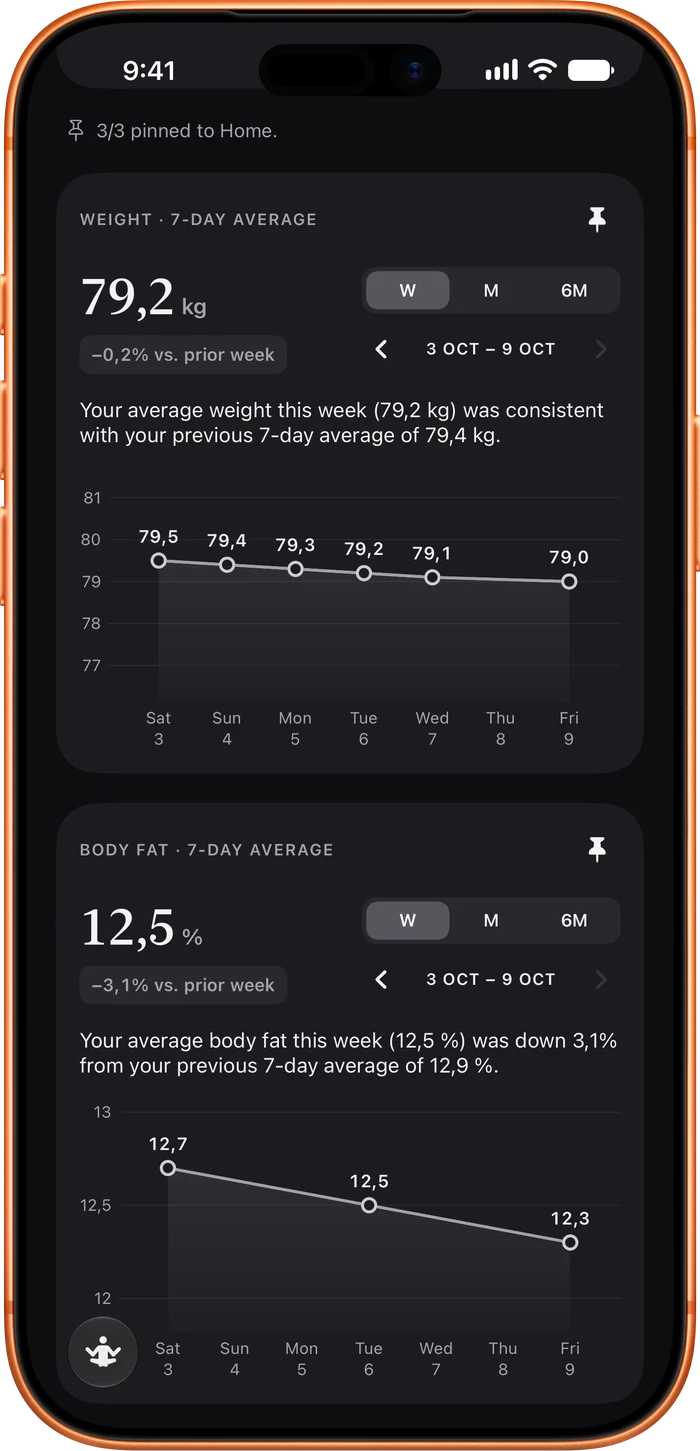
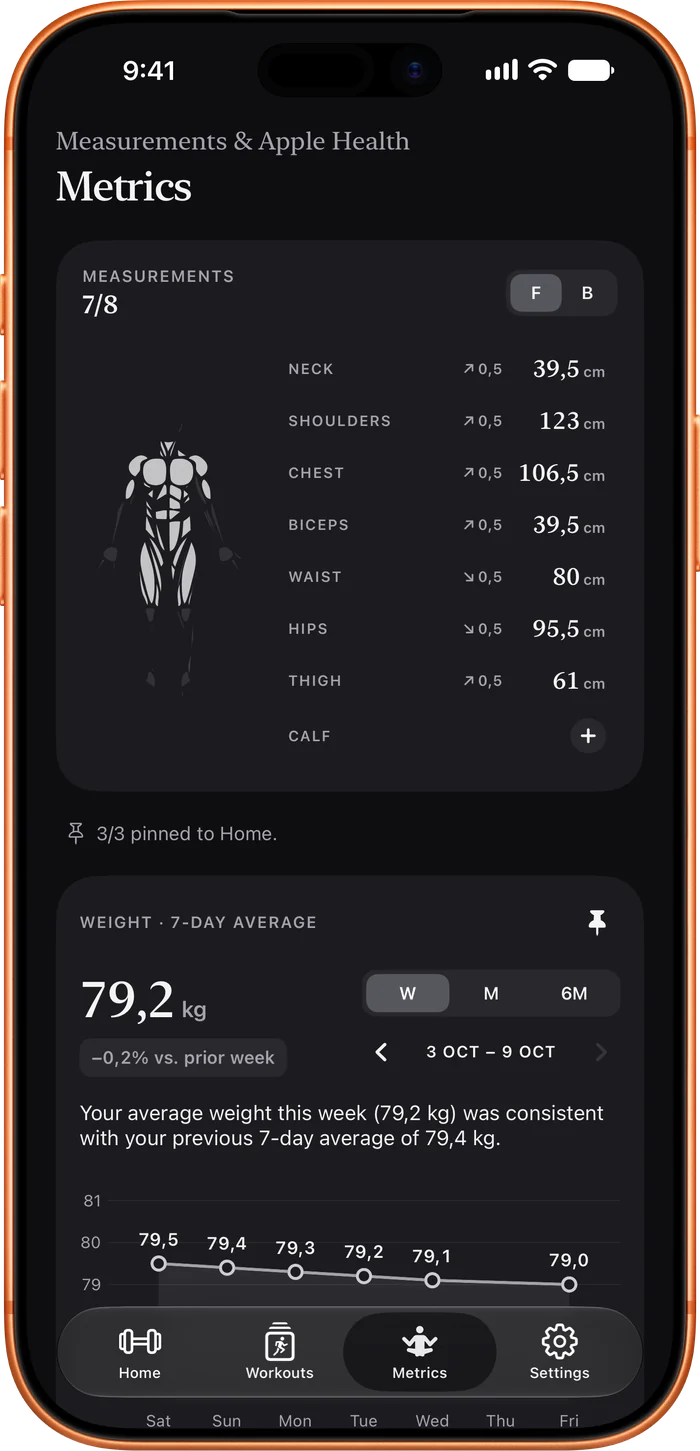
Metrics screenshot: body measurements figure

diff --git a/index.html b/index.html
@@ -46,7 +46,7 @@
         <img class="dark" src="/assets/shot-routines-dark.webp" alt="" loading="lazy" width="700" height="1451">
       </figure>
       <figure class="shot">
-        <img class="light" src="/assets/shot-metrics-light.webp" alt="Metrics: weight and body fat trends" loading="lazy" width="700" height="1451">
+        <img class="light" src="/assets/shot-metrics-light.webp" alt="Metrics: body measurements on a muscle figure, and weight trend" loading="lazy" width="700" height="1451">
         <img class="dark" src="/assets/shot-metrics-dark.webp" alt="" loading="lazy" width="700" height="1451">
       </figure>
     </section>
